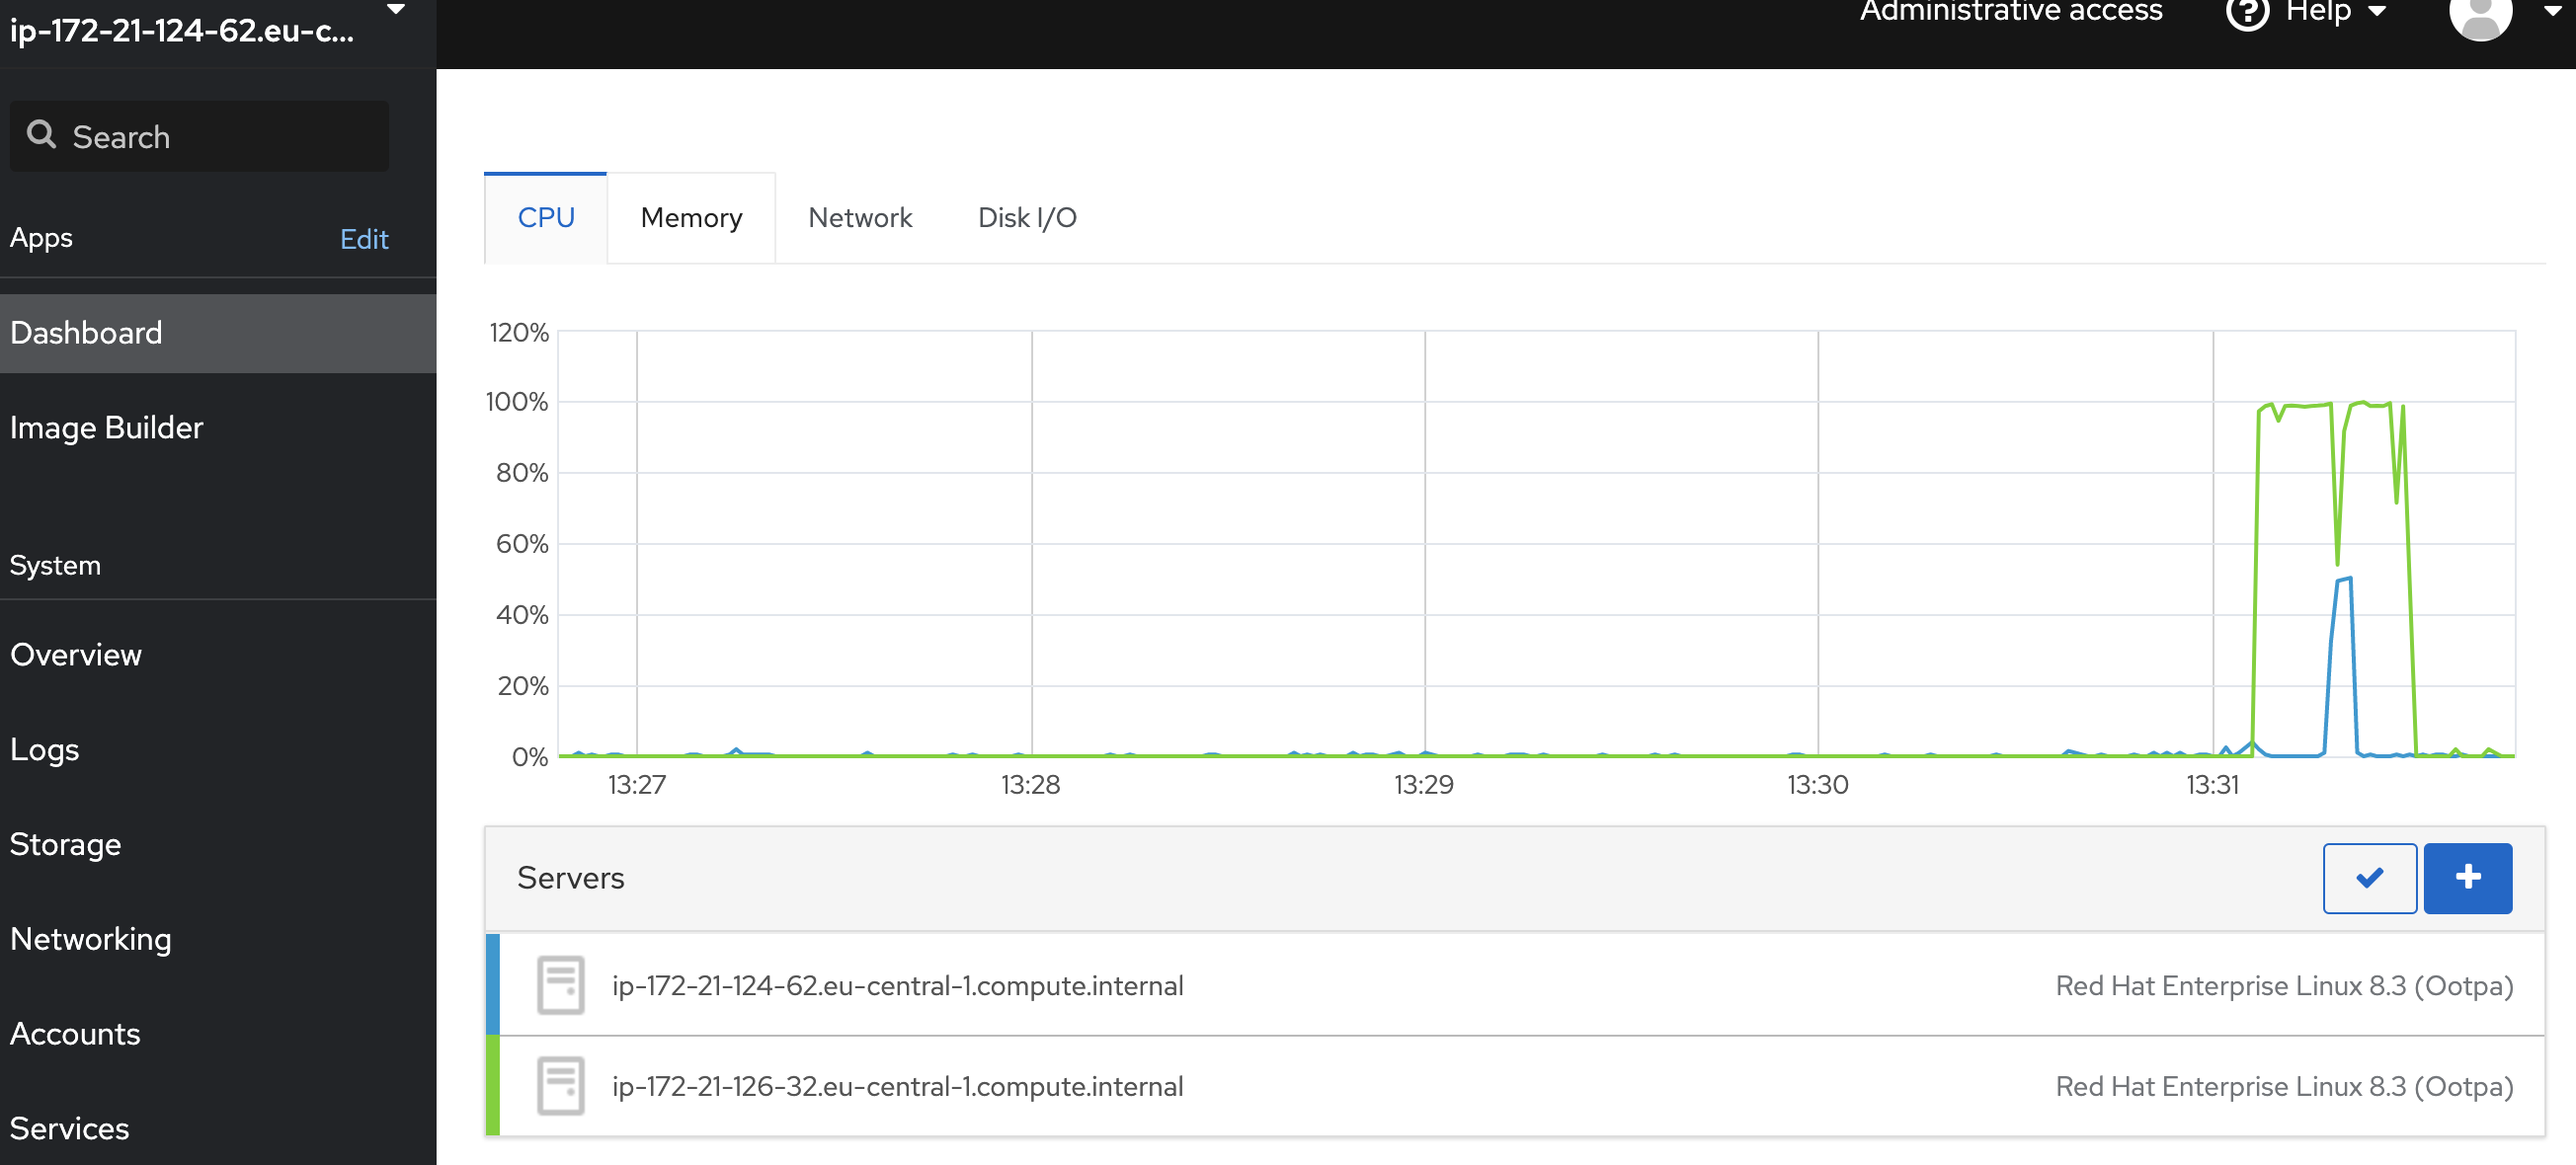
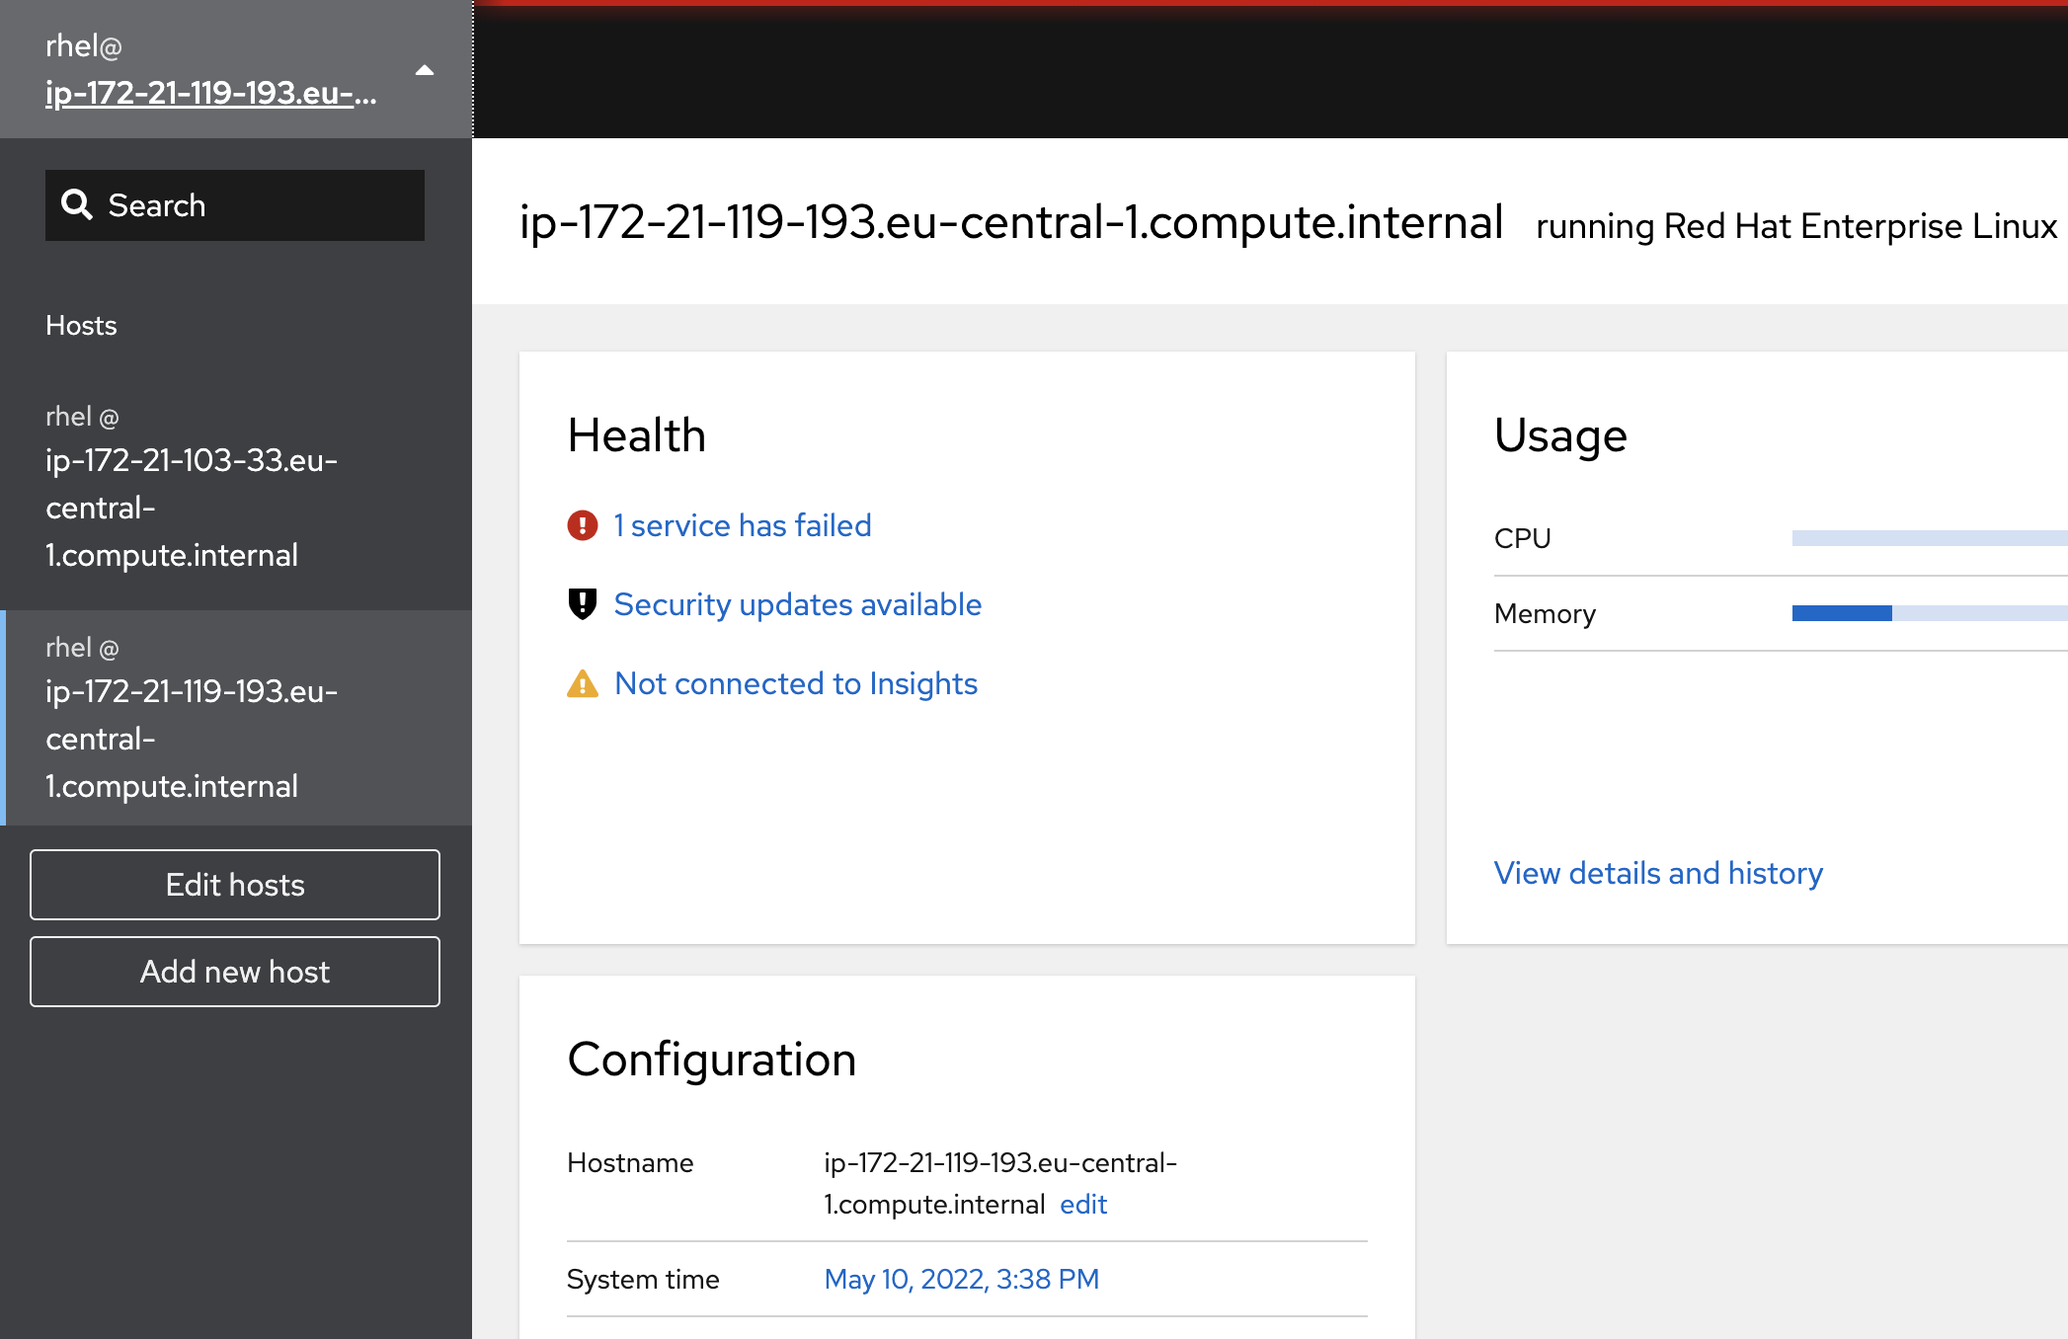
New images and text ins assign3 due changes interface

diff --git a/content/assign3.md b/content/assign3.md
@@ -42,15 +42,15 @@ When promted input the password of user rhel
 
 ## Add servers to the graphical user interface(GUI)
 
-:boom: Now it is time to add the second server to the user interface. Locate the **Dashboard** icon on your very left and click on that:
+:boom: Now it is time to add the second server to the user interface. In the top left corner you see **rhel@**, please click this dropdown
 
-![the dashboard button](images/interface_dashboard.png)
+![the manage many servers menu](images/interface_manageservers.png)
 
-Once you click on that button you will see the Dashboard:
+Once you click on that button you will see all servers you manage (1 at this point):
 
-![the dashboard](images/interface_dashboardsingle.png)
+![the dashboard](images/interface_nowaddsingle.png)
 
-:boom: If all is well you can add servers from here. Please press the **plus** sign to add another server.
+:boom: If all is well you can add servers from here. Please press the **Add new host** button to add another server.
 
 ![add the server](images//interface_addserver.png)
 
@@ -62,9 +62,11 @@ In the end the list should look something like this:
 
 Now it is time to do some stuff on the other machine. And it is as simple as clicking the new server in the interface to go there. Now you need to click around to fix stuff.
 
+boom: Notice the thin line at the top, red in these images. When you change to the newly added server that line is green, like the colour you set in the **Add new host** view above
+
 You can always go between the servers by clicking in the top left corner
 
-![switch server](images/interface_switchnode.png)
+![the manage many servers menu](images/interface_manageservers.png)
 
 We suggest enrolling the server in the domain, make sure the server is updated to latest patch level and perhaps you will find other stuff to do with the second one.
 
